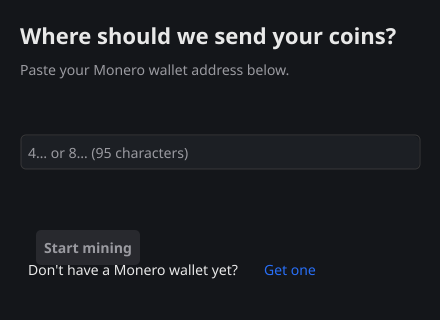
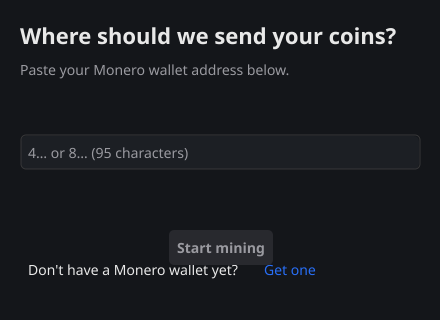
Fix onboarding/settings spacers to actually expand
layoutSpacer() returned an empty widget.Label, which has a fixed minimal
size and does not absorb extra space — so the onboarding CTA buttons sat
left-aligned and crowded the body text, and the settings Cancel/Save row
wasn't right-aligned. Return layout.NewSpacer() (the real expanding spacer)
so the box layouts centre / right-align as intended.

Regenerated the onboarding screenshots to match. Verified visually via the
capture utility and with go vet + go test -short.

Changed region(s): [[0.3841, 0.75, 0.6205, 0.8125], [0.0886, 0.75, 0.2955, 0.8125]]

diff --git a/internal/gui/onboarding.go b/internal/gui/onboarding.go
@@ -6,6 +6,7 @@ import (
 	"fyne.io/fyne/v2"
 	"fyne.io/fyne/v2/canvas"
 	"fyne.io/fyne/v2/container"
+	"fyne.io/fyne/v2/layout"
 	"fyne.io/fyne/v2/widget"
 )
 
@@ -142,7 +143,9 @@ func parseURL(raw string) *url.URL {
 	return u
 }
 
-// layoutSpacer returns a flexible spacer for centering content.
+// layoutSpacer returns a flexible spacer that absorbs extra space in a box
+// container — used to centre (HBox/VBox spacers on both sides) or right-align
+// (a single leading spacer) content. An empty widget.Label would not expand.
 func layoutSpacer() fyne.CanvasObject {
-	return widget.NewLabel("")
+	return layout.NewSpacer()
 }
